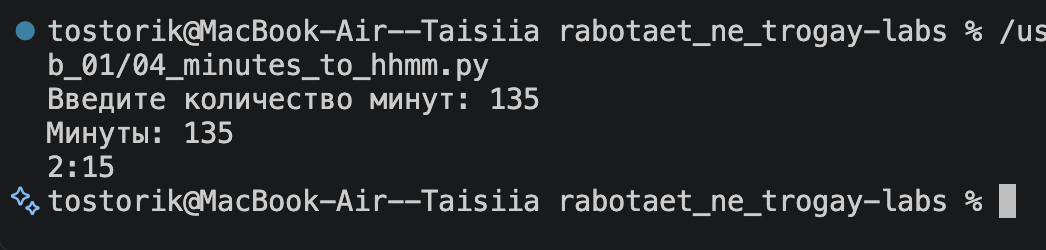
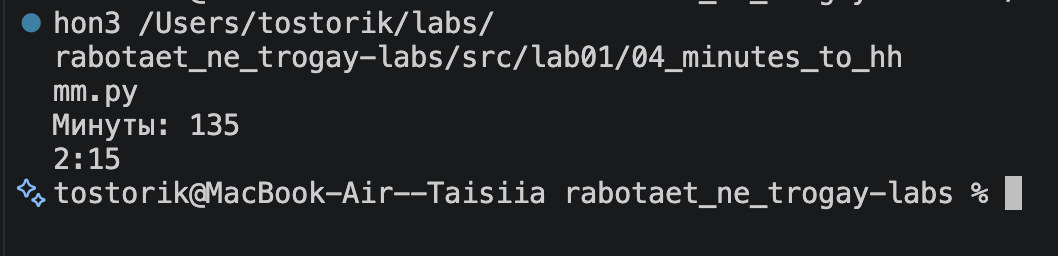
fixx

diff --git a/src/lab01/04_minutes_to_hhmm.py b/src/lab01/04_minutes_to_hhmm.py
@@ -1,5 +1,5 @@
-min = int(input('Введите количество минут: '))
+min = int(input('Минуты: '))
 h = min // 60
 m = min % 60
-print(f'Минуты: {min:02d}')
+
 print(f'{h}:{m:02d}')
